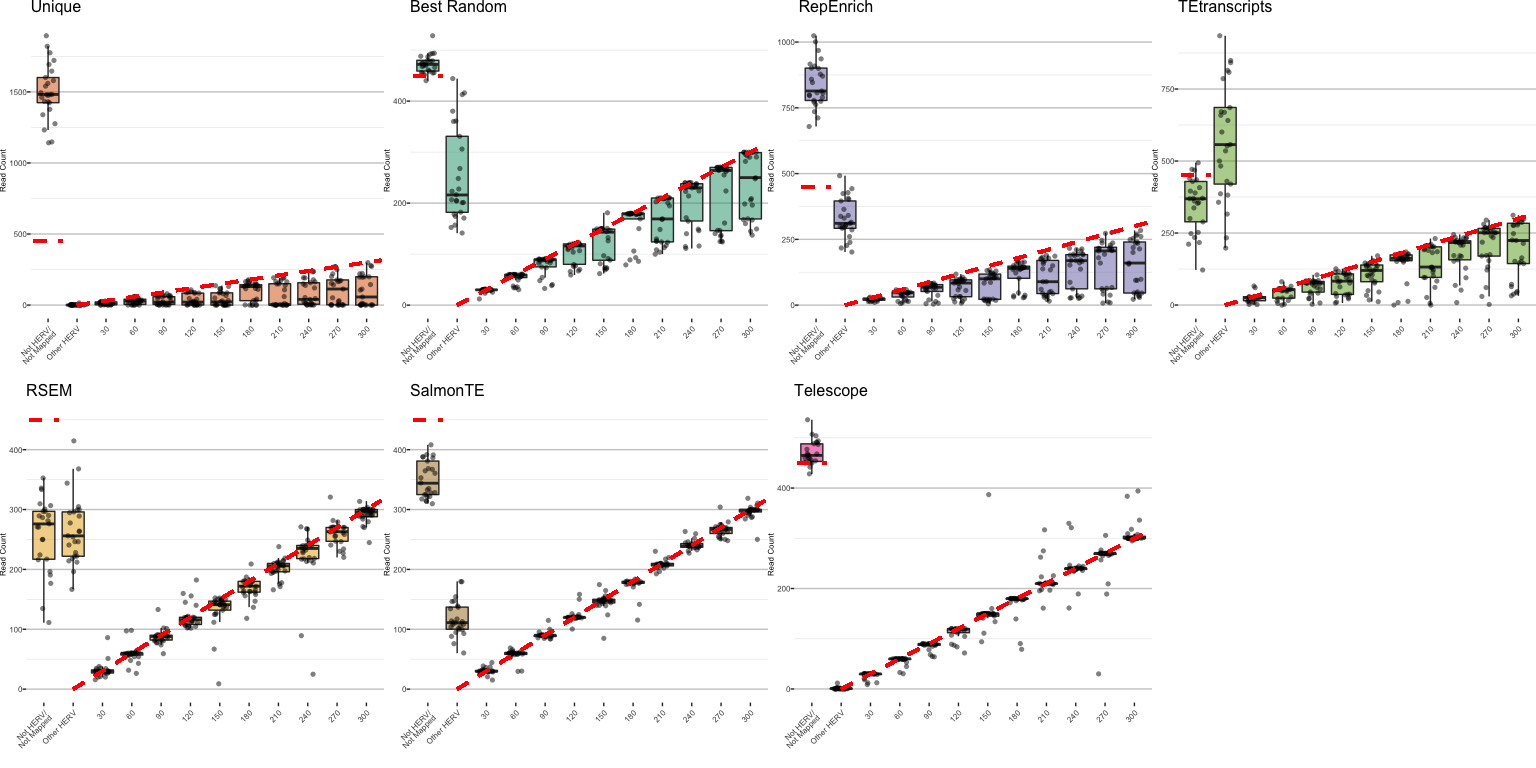
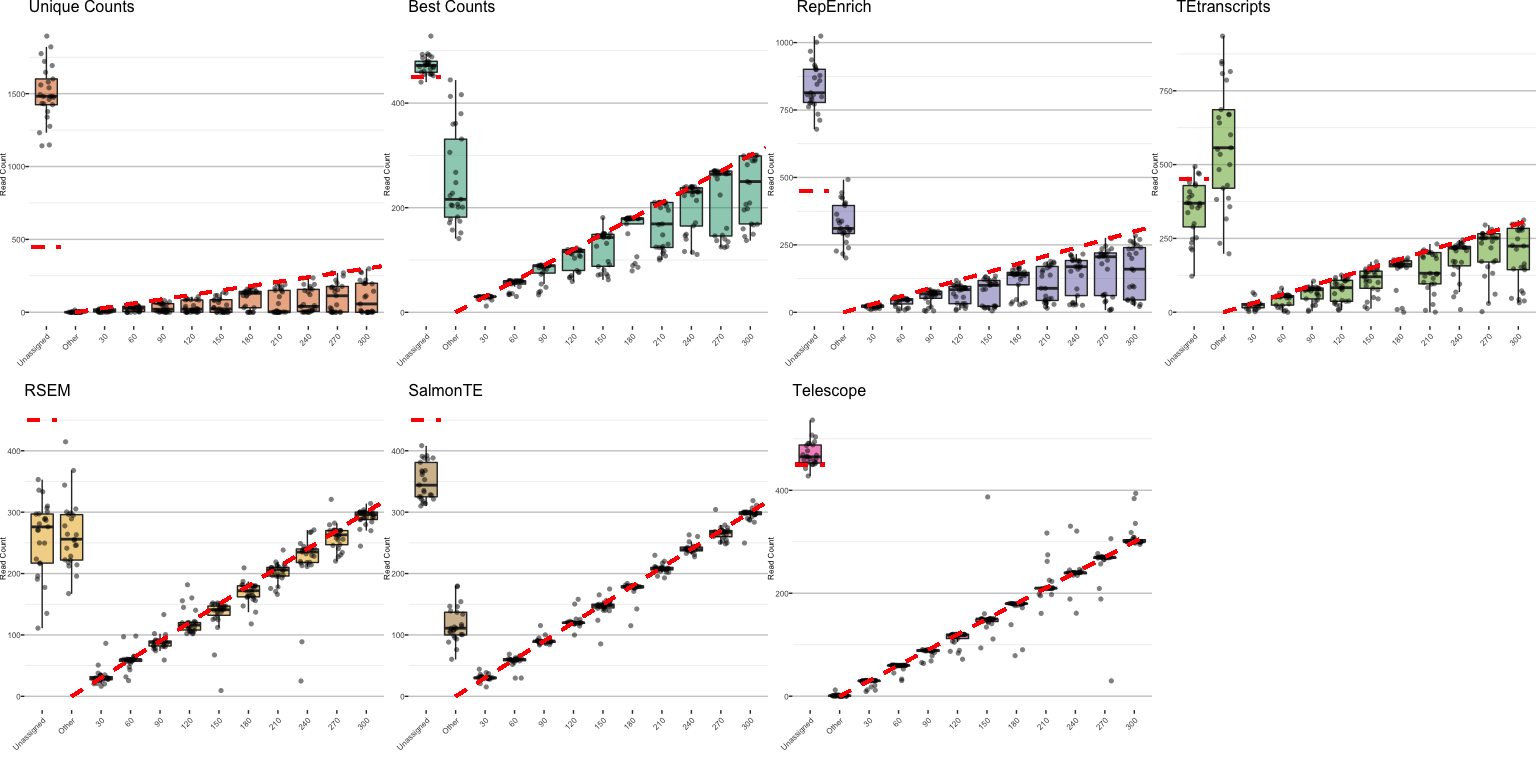
Changed Best Random -> Best Counts and Unique -> Unique Counts, also Unassinged and Other

diff --git a/Images.md b/Images.md
@@ -27,9 +27,9 @@ library("RColorBrewer")
 
 data<-read.table("allSim_numbers.txt", skip=1, col.names = c("locus","best_counts","uni_counts","repenrich_counts","telescope","tetr_counts","RSEM","SalmonTE","real"))
 data<-cbind(data,cathegorie=data$real)
-data$cathegorie[data$locus=="__no_feature"]<-"Not HERV/\nNot Mapped"
-data$cathegorie[data$locus=="Others"]<-"Other HERV"
-data$cathegorie<-factor(data$cathegorie,levels=c("Not HERV/\nNot Mapped","Other HERV",as.character(seq(from=30,to=300,by=30))))
+data$cathegorie[data$locus=="__no_feature"]<-"Unassigned"
+data$cathegorie[data$locus=="Others"]<-"Other"
+data$cathegorie<-factor(data$cathegorie,levels=c("Unassigned","Other",as.character(seq(from=30,to=300,by=30))))
 
 colorp<-brewer.pal(n = 7, name = "Dark2")
 
@@ -59,8 +59,8 @@ plot_box_sim<-function(data2plot,x2plot,y2plot,title,color2plot,tem2plot=tem,lim
 ```
 
 ``` r
-pbest<-plot_box_sim(data2plot=data,x2plot="cathegorie",y2plot="best_counts", title="Best Random",color2plot=colorp[1],limit=data$real[data$locus=="__no_feature"][1])
-puniq<-plot_box_sim(data2plot=data,x2plot="cathegorie",y2plot="uni_counts", title="Unique",color2plot=colorp[2],limit=data$real[data$locus=="__no_feature"][1])
+pbest<-plot_box_sim(data2plot=data,x2plot="cathegorie",y2plot="best_counts", title="Best Counts",color2plot=colorp[1],limit=data$real[data$locus=="__no_feature"][1])
+puniq<-plot_box_sim(data2plot=data,x2plot="cathegorie",y2plot="uni_counts", title="Unique Counts",color2plot=colorp[2],limit=data$real[data$locus=="__no_feature"][1])
 pRepEn<-plot_box_sim(data2plot=data,x2plot="cathegorie",y2plot="repenrich_counts", title="RepEnrich",color2plot=colorp[3],limit=data$real[data$locus=="__no_feature"][1])
 pTele<-plot_box_sim(data2plot=data,x2plot="cathegorie",y2plot="telescope", title="Telescope",color2plot=colorp[4],limit=data$real[data$locus=="__no_feature"][1])
 pTEt<-plot_box_sim(data2plot=data,x2plot="cathegorie",y2plot="tetr_counts", title="TEtranscripts",color2plot=colorp[5],limit=data$real[data$locus=="__no_feature"][1])
@@ -163,7 +163,7 @@ pres
 ![](Images_files/figure-markdown_github/fig3-1.png)
 
 ``` r
-levels(F1_score$Counting)<-c("Best Random", "Unique", "RepEnrich", "Telescope", "TEtranscripts", "RSEM","SalmonTE")
+levels(F1_score$Counting)<-c("Best Counts", "Unique Counts", "RepEnrich", "Telescope", "TEtranscripts", "RSEM","SalmonTE")
 f1<-ggplot(F1_score, aes(x=F1, color=Counting, fill=Counting))+
   geom_density()+
   scale_color_manual(values=colorp)+
